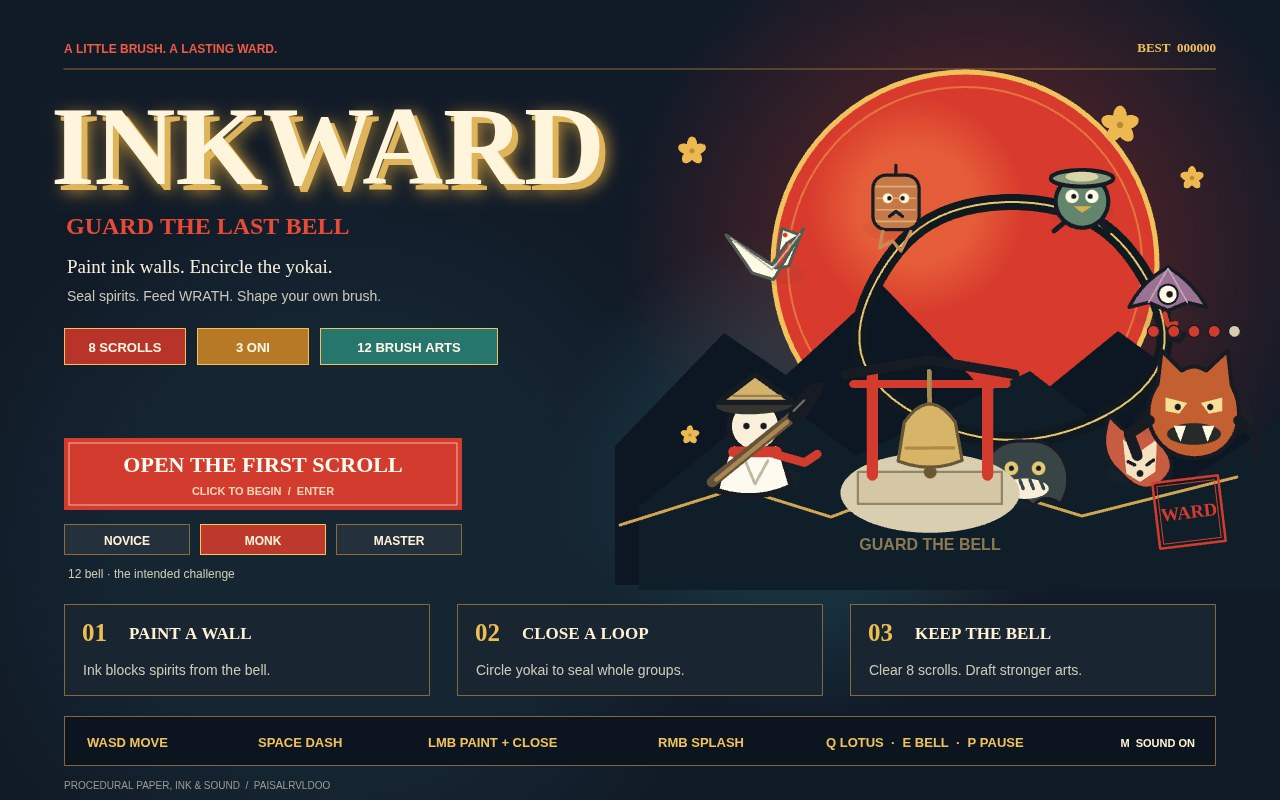
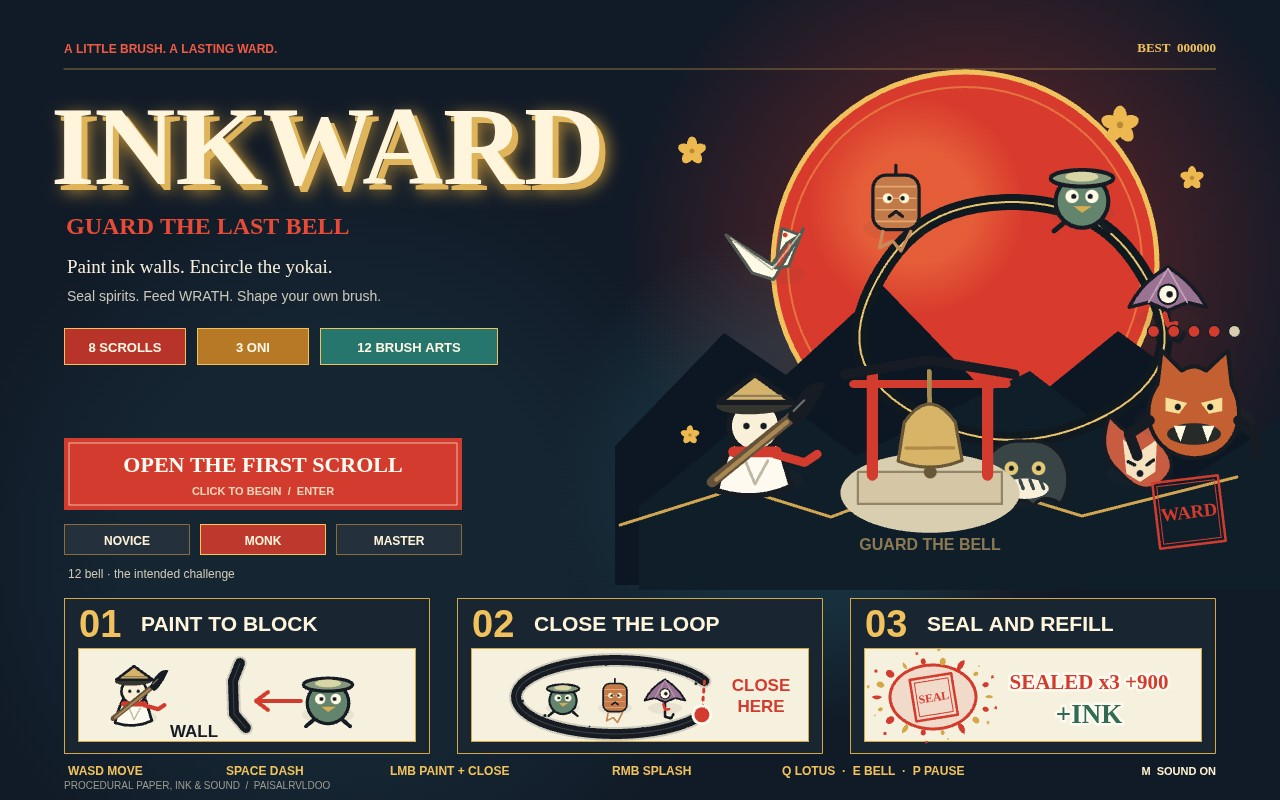
Illustrate the title tutorial with real ink and yokai renderers

Changed region(s): [[0.0312, 0.75, 0.9688, 0.9688]]

diff --git a/game/src/screens/tutorial.js b/game/src/screens/tutorial.js
@@ -1,0 +1,56 @@
+import { COLORS } from '../config.js';
+import { YOKAI } from '../entities/yokai.js';
+import { drawMonk, drawYokai } from '../render/sprites.js';
+import { drawStrokes } from '../render/ink.js';
+import { drawEffects } from '../render/fx.js';
+import { panel, text, line, circle } from '../render/primitives.js';
+
+const loop = (x, y, rx, ry, fraction = 1) => Array.from({ length: 49 }, (_, i) => {
+  const angle = 0.5 + i / 48 * Math.PI * 2 * fraction;
+  return { x: x + Math.cos(angle) * rx, y: y + Math.sin(angle) * ry };
+});
+const ink = points => ({ points, life: 16, integrity: 1 });
+const spirits = (ctx, kind, x, y, scale) => drawYokai(ctx, { kind, x, y, color: YOKAI[kind].color, phase: 0, radius: 18 }, 0, scale);
+
+// Small encounters use the same ink, sprites, seal stamp and particles as play.
+export function drawTutorial(ctx) {
+  const captions = ['PAINT TO BLOCK', 'CLOSE THE LOOP', 'SEAL AND REFILL'];
+  for (let step = 0; step < 3; step++) {
+    ctx.save(); ctx.translate(64 + step * 393, 598);
+    panel(ctx, 0, 0, 366, 156, '#192632', '#d5a847');
+    text(ctx, `0${step + 1}`, 15, 39, 38, '#f0c15d', 'bold');
+    text(ctx, captions[step], 77, 33, 21, '#fff5dd', 'bold');
+    panel(ctx, 14, 50, 338, 94, '#f6f0df', '#d5a847');
+    const scene = { strokes: [], seals: [], arts: [], activeStroke: null };
+    if (step === 0) {
+      scene.strokes.push(ink([{ x: 176, y: 65 }, { x: 169, y: 83 }, { x: 170, y: 116 }, { x: 182, y: 130 }]));
+      drawStrokes(ctx, scene);
+      drawMonk(ctx, { x: 70, y: 107, hurtTime: 0 }, 0, 1.05);
+      spirits(ctx, 'kappa', 264, 101, 1.3);
+      line(ctx, [[237, 103], [192, 103]], COLORS.red, 4);
+      line(ctx, [[204, 94], [192, 103], [204, 112]], COLORS.red, 4);
+      text(ctx, 'WALL', 130, 139, 17, COLORS.ink, 'bold', false, 'center');
+    } else if (step === 1) {
+      const points = loop(158, 99, 99, 37, 0.85);
+      scene.strokes.push(ink(points)); drawStrokes(ctx, scene);
+      spirits(ctx, 'kappa', 106, 100, 0.85);
+      spirits(ctx, 'lantern', 158, 100, 0.85);
+      spirits(ctx, 'umbrella', 208, 100, 0.85);
+      ctx.setLineDash([3, 5]); line(ctx, [[points.at(-1).x, points.at(-1).y], [points[0].x, points[0].y]], COLORS.red, 3); ctx.setLineDash([]);
+      circle(ctx, points[0].x, points[0].y, 9, COLORS.red, COLORS.white, 3);
+      text(ctx, 'CLOSE', 304, 93, 17, COLORS.red, 'bold', false, 'center');
+      text(ctx, 'HERE', 304, 114, 17, COLORS.red, 'bold', false, 'center');
+    } else {
+      scene.seals.push({ points: loop(83, 99, 43, 32), life: 1.4, success: true }); drawStrokes(ctx, scene);
+      const particles = Array.from({ length: 18 }, (_, i) => {
+        const angle = i / 18 * Math.PI * 2;
+        return { x: 83 + Math.cos(angle) * 56, y: 99 + Math.sin(angle) * 36, angle, size: 4 + i % 4, life: 1, petal: i % 3 === 0, color: i % 2 ? COLORS.red : COLORS.gold };
+      });
+      drawEffects(ctx, { particles, rings: [], bolts: [], floats: [
+        { x: 239, y: 91, text: 'SEALED x3 +900', size: 21, color: COLORS.red, life: 1 },
+        { x: 239, y: 125, text: '+INK', size: 27, color: '#306c54', life: 1 },
+      ] });
+    }
+    ctx.restore();
+  }
+}

diff --git a/game/src/screens/title.js b/game/src/screens/title.js
@@ -5,6 +5,7 @@ import { text, line, panel, button, hitRect, stamp, circle } from '../render/pri
 import { wash, blossom } from '../render/paper.js';
 import { DIFFICULTIES } from '../world/difficulty.js';
 import { ONI } from '../entities/bosses.js';
+import { drawTutorial } from './tutorial.js';
 
 export const START_BUTTON = { x: 64, y: 438, w: 398, h: 72 };
 export const DIFFICULTY_RECTS = DIFFICULTIES.map((d, i) => ({ x: 64 + i * 136, y: 524, w: 126, h: 31, id: d.id }));
@@ -63,23 +64,12 @@ export function drawTitle(ctx, state, input, audio) {
   });
   text(ctx, DIFFICULTIES.find(d => d.id === state.difficulty).hint, 68, 578, 12, '#d0c9b8');
 
-  const cards = [
-    { x: 64, n: '01', title: 'PAINT A WALL', detail: 'Ink blocks spirits from the bell.' },
-    { x: 457, n: '02', title: 'CLOSE A LOOP', detail: 'Circle yokai to seal whole groups.' },
-    { x: 850, n: '03', title: 'KEEP THE BELL', detail: 'Clear 8 scrolls. Draft stronger arts.' },
-  ];
-  for (const card of cards) {
-    panel(ctx, card.x, 604, 366, 92, '#192632', '#82693e');
-    text(ctx, card.n, card.x + 18, 641, 25, '#f0bd53', 'bold', true);
-    text(ctx, card.title, card.x + 65, 639, 17, '#fff1d2', 'bold', true);
-    text(ctx, card.detail, card.x + 19, 675, 14, '#d0c9b8');
-  }
-  panel(ctx, 64, 716, 1152, 50, '#0c141f', '#80673e');
-  text(ctx, 'WASD MOVE', 87, 747, 13, '#f0c15d', 'bold');
-  text(ctx, 'SPACE DASH', 258, 747, 13, '#f0c15d', 'bold');
-  text(ctx, 'LMB PAINT + CLOSE', 428, 747, 13, '#f0c15d', 'bold');
-  text(ctx, 'RMB SPLASH', 658, 747, 13, '#f0c15d', 'bold');
-  text(ctx, 'Q LOTUS  ·  E BELL  ·  P PAUSE', 826, 747, 13, '#f0c15d', 'bold');
-  text(ctx, audio.muted ? 'M  SOUND OFF' : 'M  SOUND ON', 1195, 747, 11, '#fff1d2', 'bold', false, 'right');
+  drawTutorial(ctx);
+  text(ctx, 'WASD MOVE', 68, 775, 12, '#f0c15d', 'bold');
+  text(ctx, 'SPACE DASH', 226, 775, 12, '#f0c15d', 'bold');
+  text(ctx, 'LMB PAINT + CLOSE', 390, 775, 12, '#f0c15d', 'bold');
+  text(ctx, 'RMB SPLASH', 612, 775, 12, '#f0c15d', 'bold');
+  text(ctx, 'Q LOTUS  ·  E BELL  ·  P PAUSE', 782, 775, 12, '#f0c15d', 'bold');
+  text(ctx, audio.muted ? 'M  SOUND OFF' : 'M  SOUND ON', 1216, 775, 11, '#fff1d2', 'bold', false, 'right');
   text(ctx, 'PROCEDURAL PAPER, INK & SOUND  /  PAISALRVLDOO', 64, 789, 10, '#9a9a91');
 }
